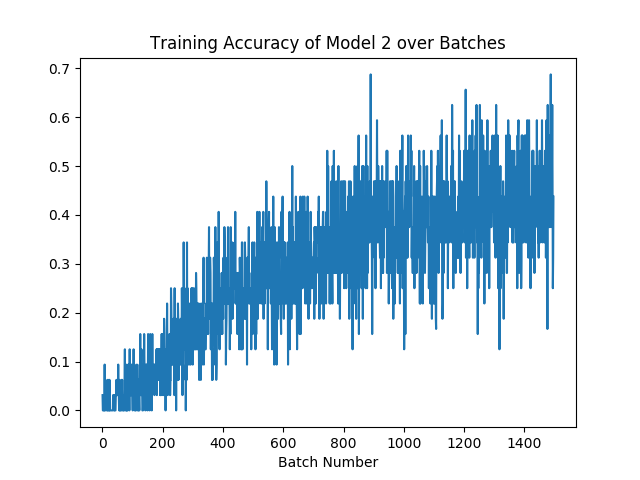
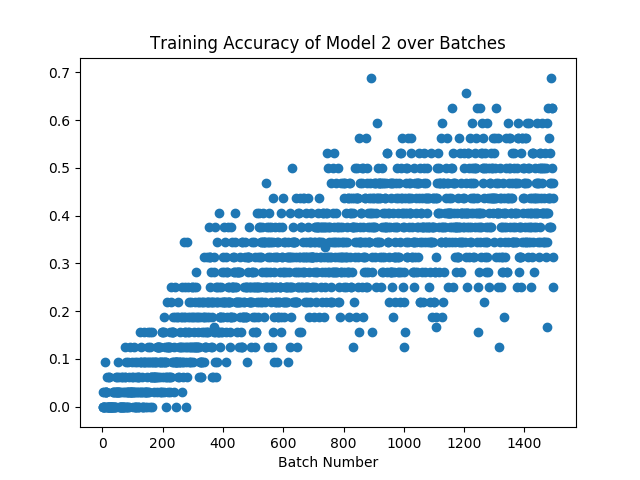
finding new correct script, generating intermediate embeddings

diff --git a/hw3/generate_intermediate_layer_output.py b/hw3/generate_intermediate_layer_output.py
@@ -10,7 +10,7 @@ import random
 from PIL import Image
 import numpy as np
 import scipy.misc
-
+import csv
 
 height = 256
 width = 256
@@ -23,12 +23,6 @@ splitListFile = '/Users/anshulramachandran/Documents/Year3 Q3/CS148/CUB_200_2011
 bboxListFile = '/Users/anshulramachandran/Documents/Year3 Q3/CS148/CUB_200_2011/CUB_200_2011/bounding_boxes.txt'
 
 
-# trainFolder = './CUB_200_2011/CUB_200_2011/train'
-# validationFolder = './CUB_200_2011/CUB_200_2011/validation'
-# imageListFile = './CUB_200_2011/CUB_200_2011/images.txt'
-# labelListFile = './CUB_200_2011/CUB_200_2011/image_class_labels.txt'
-# splitListFile = './CUB_200_2011/CUB_200_2011/train_test_split.txt'
-# bboxListFile = './CUB_200_2011/CUB_200_2011/bounding_boxes.txt'
 
 imageInfo = {}
 name_label = {}
@@ -52,7 +46,7 @@ for line in f:
 f = open(imageListFile, 'r')
 for line in f:
     [img_id, path] = line.split(' ')
-    name_label[path[:-1].split('/')[-1]] = int(imageInfo[img_id]) - 1
+    name_label[path[:-1].split('/')[-1]] = img_id
     imageInfo[img_id] = [path[:-1], imageInfo[img_id]]
 
 f = open(bboxListFile, 'r')
@@ -63,6 +57,7 @@ for line in f:
     x2 = x1 + float(w)
     y2 = y1 + float(h)
     imageInfo[img_id] = [imageInfo[img_id][0], imageInfo[img_id][1], (x1, y1, x2, y2)]
+
 
 def processImage(imagePath):
     image = Image.open(imagePath)
@@ -79,7 +74,6 @@ def processImage(imagePath):
     )
 
     return background
-
 
 
 # create the base pre-trained model
@@ -100,53 +94,44 @@ predictions = Dense(200, activation='softmax')(x)
 # this is the model we will train
 model = Model(inputs=base_model.input, outputs=predictions)
 
-# we chose to train everything but the top 2 inception blocks, i.e. we will
-# freeze the first 172 layers and unfreeze the rest:
-for layer in base_model.layers:
-    layer.trainable = False
-# for layer in model.layers[:172]:
-#    layer.trainable = False
-# for layer in model.layers[172:]:
-#    layer.trainable = True
-
-# we need to recompile the model for these modifications to take effect
-# we use SGD with a low learning rate
-from keras.optimizers import Adam
-model.compile(optimizer=Adam(lr=0.001), loss='categorical_crossentropy', metrics=['acc'])
-
 model = load_model('/Users/anshulramachandran/Desktop/model1.h5')
 
-# Generate confusion matrix
-confusion_matrix = np.zeros(shape=(200,200))
+
+# create the base pre-trained model
+#base_model = InceptionV3(weights='imagenet', include_top=False, input_shape=(width, height, 3))
+base_model2 = InceptionV3(weights='imagenet', include_top=False, input_shape=(height, width, 3))
+
+# for i, layer in enumerate(base_model.layers):
+#    print(i, layer.name)
+
+# add a global spatial average pooling layer
+x2 = base_model2.output
+x2 = GlobalAveragePooling2D()(x2)
+# let's add a fully-connected layer
+predictions2 = Dense(1024, activation='relu')(x2)
+
+# this is the model we will train
+model2 = Model(inputs=base_model2.input, outputs=predictions2)
+
+for i, layer in enumerate(model2.layers):
+    print(i, layer.name, model.layers[i].name)
+    layer.set_weights(model.layers[i].get_weights())
+
+
+inters = []
 
 count = 0
 for path, subdirs, files in os.walk(validationFolder):
-# for path, subdirs, files in os.walk('./CUB_200_2011/CUB_200_2011/validation'):
     for name in files:
         if name[0] != '.':
-            class_true = name_label[name]
+            img_id = float(name_label[name])
             curr_img = np.asarray([np.asarray(processImage(os.path.join(path, name)))])
-            class_pred = np.argmax(model.predict(curr_img/255.0))
-            confusion_matrix[class_true][class_pred] += 1
+            inter_output = np.insert(model2.predict(curr_img/255.0)[0], 0, img_id)
+            inters.append(inter_output)
             count += 1
             if count % 100 == 0:
                 print(count)
 
-# for i in range(len(testY)):
-#     class_true = np.argmax(testY[i])
-#     digit_pred = np.argmax(predY[i])
-#     confusion_matrix[digit_true][digit_pred] += 1
-confusion_matrix = confusion_matrix.astype(int)
-confusion_matrix = -confusion_matrix
-confusion_matrix_img = np.zeros(shape=(1000, 1000))
-for i in range(len(confusion_matrix_img)):
-    for j in range(len(confusion_matrix_img[0])):
-        confusion_matrix_img[i][j] = confusion_matrix[int(i/5.0), int(j/5.0)]
-scipy.misc.imsave('./graphs/confusion_matrix1.jpg', confusion_matrix_img)
-for i in range(200):
-    confusion_matrix[i][i] = 0
-confusion_matrix_img = np.zeros(shape=(1000, 1000))
-for i in range(len(confusion_matrix_img)):
-    for j in range(len(confusion_matrix_img[0])):
-        confusion_matrix_img[i][j] = confusion_matrix[int(i/5.0), int(j/5.0)]
-scipy.misc.imsave('./graphs/confusion_matrix1_no_diagonal.jpg', confusion_matrix_img)
+with open("./intermediates/validation1.csv", "w") as f:
+    writer = csv.writer(f)
+    writer.writerows(inters)

diff --git a/hw3/find_new_correct.py b/hw3/find_new_correct.py
@@ -1,0 +1,101 @@
+from keras.applications.inception_v3 import InceptionV3
+from keras.preprocessing import image
+from keras.preprocessing.image import ImageDataGenerator
+from keras.models import Model, load_model
+from keras.layers import Dense, GlobalAveragePooling2D
+from keras.callbacks import Callback, History, ModelCheckpoint
+from keras import backend as K
+import os
+import random
+from PIL import Image
+import numpy as np
+import scipy.misc
+import csv
+
+height = 256
+width = 256
+
+trainFolder = '/Users/anshulramachandran/Documents/Year3 Q3/CS148/CUB_200_2011/CUB_200_2011/train'
+validationFolder = '/Users/anshulramachandran/Documents/Year3 Q3/CS148/CUB_200_2011/CUB_200_2011/validation'
+validationFolder2 = '/Users/anshulramachandran/Documents/Year3 Q3/CS148/CUB_200_2011/CUB_200_2011/validation2'
+imageListFile = '/Users/anshulramachandran/Documents/Year3 Q3/CS148/CUB_200_2011/CUB_200_2011/images.txt'
+labelListFile = '/Users/anshulramachandran/Documents/Year3 Q3/CS148/CUB_200_2011/CUB_200_2011/image_class_labels.txt'
+splitListFile = '/Users/anshulramachandran/Documents/Year3 Q3/CS148/CUB_200_2011/CUB_200_2011/train_test_split.txt'
+bboxListFile = '/Users/anshulramachandran/Documents/Year3 Q3/CS148/CUB_200_2011/CUB_200_2011/bounding_boxes.txt'
+
+
+
+imageInfo = {}
+name_label = {}
+
+indices_for_train = []
+indices_for_val = []
+
+f = open(splitListFile, 'r')
+for line in f:
+    [img_id, img_class] = line.split(' ')
+    if img_class[0] == '1':
+        indices_for_train.append(img_id)
+    else:
+        indices_for_val.append(img_id)
+
+f = open(labelListFile, 'r')
+for line in f:
+    [img_id, label] = line.split(' ')
+    imageInfo[img_id] = label[:-1]
+
+f = open(imageListFile, 'r')
+for line in f:
+    [img_id, path] = line.split(' ')
+    name_label[path[:-1].split('/')[-1]] = [img_id, int(imageInfo[img_id]) - 1]
+    imageInfo[img_id] = [path[:-1], imageInfo[img_id]]
+
+f = open(bboxListFile, 'r')
+for line in f:
+    [img_id, x1, y1, w, h] = line.split(' ')
+    x1 = float(x1)
+    y1 = float(y1)
+    x2 = x1 + float(w)
+    y2 = y1 + float(h)
+    imageInfo[img_id] = [imageInfo[img_id][0], imageInfo[img_id][1], (x1, y1, x2, y2)]
+
+
+def processImage(imagePath):
+    image = Image.open(imagePath)
+    (currw, currh) = image.size
+    if currw >= currh:
+        image = image.resize((width, int(float(currh) * float(width) / float(currw))))
+    else:
+        image = image.resize((int(float(currw) * float(height) / float(currh)), height))
+    # image.thumbnail((width, height), Image.ANTIALIAS)
+    # return image
+    background = Image.new('RGB', (width, height), (0, 0, 0))
+    background.paste(
+        image, (int((width - image.size[0]) / 2), int((height - image.size[1]) / 2))
+    )
+
+    return background
+
+
+model1 = load_model('/Users/anshulramachandran/Desktop/model1.h5')
+model2 = load_model('/Users/anshulramachandran/Desktop/model2.h5')
+
+
+count = 0
+for path, subdirs, files in os.walk(validationFolder):
+    for name in files:
+        if name[0] != '.':
+            img_id = name_label[name][0]
+            true_class = name_label[name][1]
+            subpath = os.path.join(path.split('/')[-1], name)
+
+            curr_img1 = np.asarray([np.asarray(processImage(os.path.join(validationFolder, subpath)))])
+            curr_img2 = np.asarray([np.asarray(processImage(os.path.join(validationFolder2, subpath)))])
+            class1_pred = np.argmax(model1.predict(curr_img1/255.0))
+            class2_pred = np.argmax(model2.predict(curr_img2/255.0))
+
+            if class2_pred == true_class and class1_pred != true_class:
+                print(img_id, name, class1_pred, class2_pred, true_class)
+            count += 1
+            if count % 100 == 0:
+                print(count)

diff --git a/hw3/create_plots.py b/hw3/create_plots.py
@@ -11,7 +11,10 @@ def plotGraph(data, title, fname, isBatchGraph):
     else:
         plt.xlabel('Epoch Number')
     plt.title(title)
-    plt.plot(x, data)
+    if isBatchGraph:
+        plt.scatter(x, data)
+    else:
+        plt.plot(x, data)
     plt.savefig('./graphs/' + fname + '.png')
     plt.clf()
     plt.cla()
